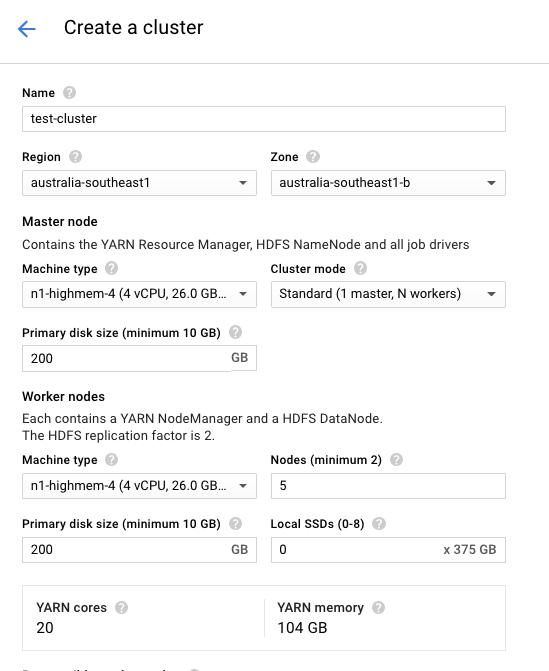
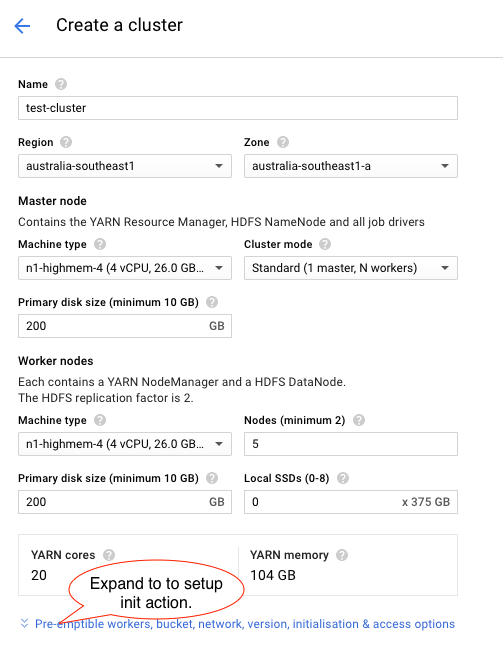
Update the google cloud instruction

diff --git a/google-cloud/README.md b/google-cloud/README.md
@@ -4,14 +4,46 @@ Running Spark ML on Google Cloud
 This part of the tutorial describes how to run a big data machine learning job on Google Cloud.
 
 
-
 ### Preparation
 
 ### Creating a cluster
 
+We will create a Dataproc cluster named `test-cluster` based on `n1-himem-4` instances (4CPU cores) with one master node and 5 worker nodes (the type and number of instances are chosen to fit into the default quota of 24CPUs). 
+
+We will also setup the initialisation action for the cluster to install python pandas package in each node.
+
+Using the Dataproc UI create the cluster with the following settings:
+
+![Create Cluster](https://piotrszul.github.io/spark-tutorial/images/create-cluster.png)
+
+Make sure you also set the **Initialisation action** in the expandable section as shown below.
+
+![Create Cluster Ex](https://piotrszul.github.io/spark-tutorial/images/create-cluster-ex.png)
+
 ### Submitting a job
 
+Once the cluster is up and and running we can submit a 'PySpark' job to run our python genomics clustering script.
+
+Using the Dataproc UI submit a job with the following settings:
+
+![Submit Job](https://piotrszul.github.io/spark-tutorial/images/submit-job.png)
+
+
+You can track progress of the job at the console. It should take about 10 minutes to complete.
+
+The final results should be similar to the following:
+
+![Job Result](https://piotrszul.github.io/spark-tutorial/images/job-result.png)
+
+
 ### Downloading the results
+
+_Note:_
+
+_Please remeber to 'Delete' the cluster after you have finished running your jobs. If you keep it active you will be charged for the cloud usage even if you do not run any jobs!_
+
+![Submit Job](https://piotrszul.github.io/spark-tutorial/images/cluster-list.png)
+
 
 
 
